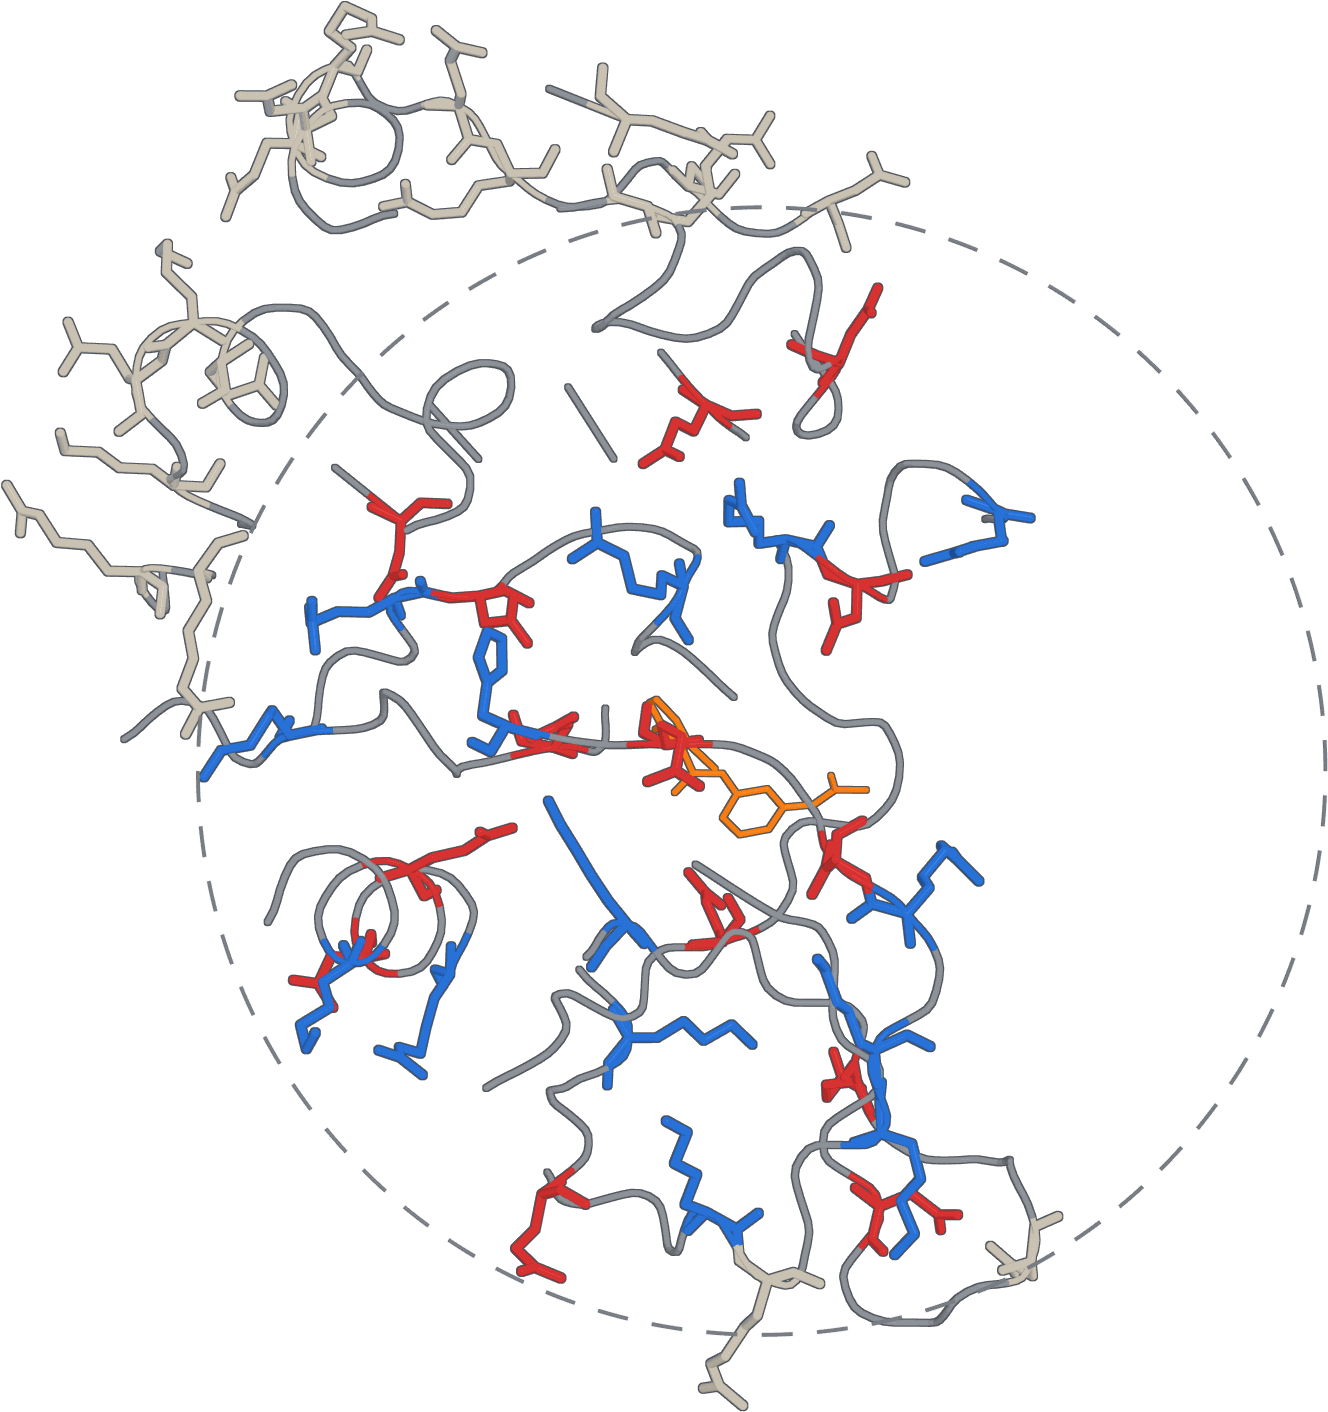
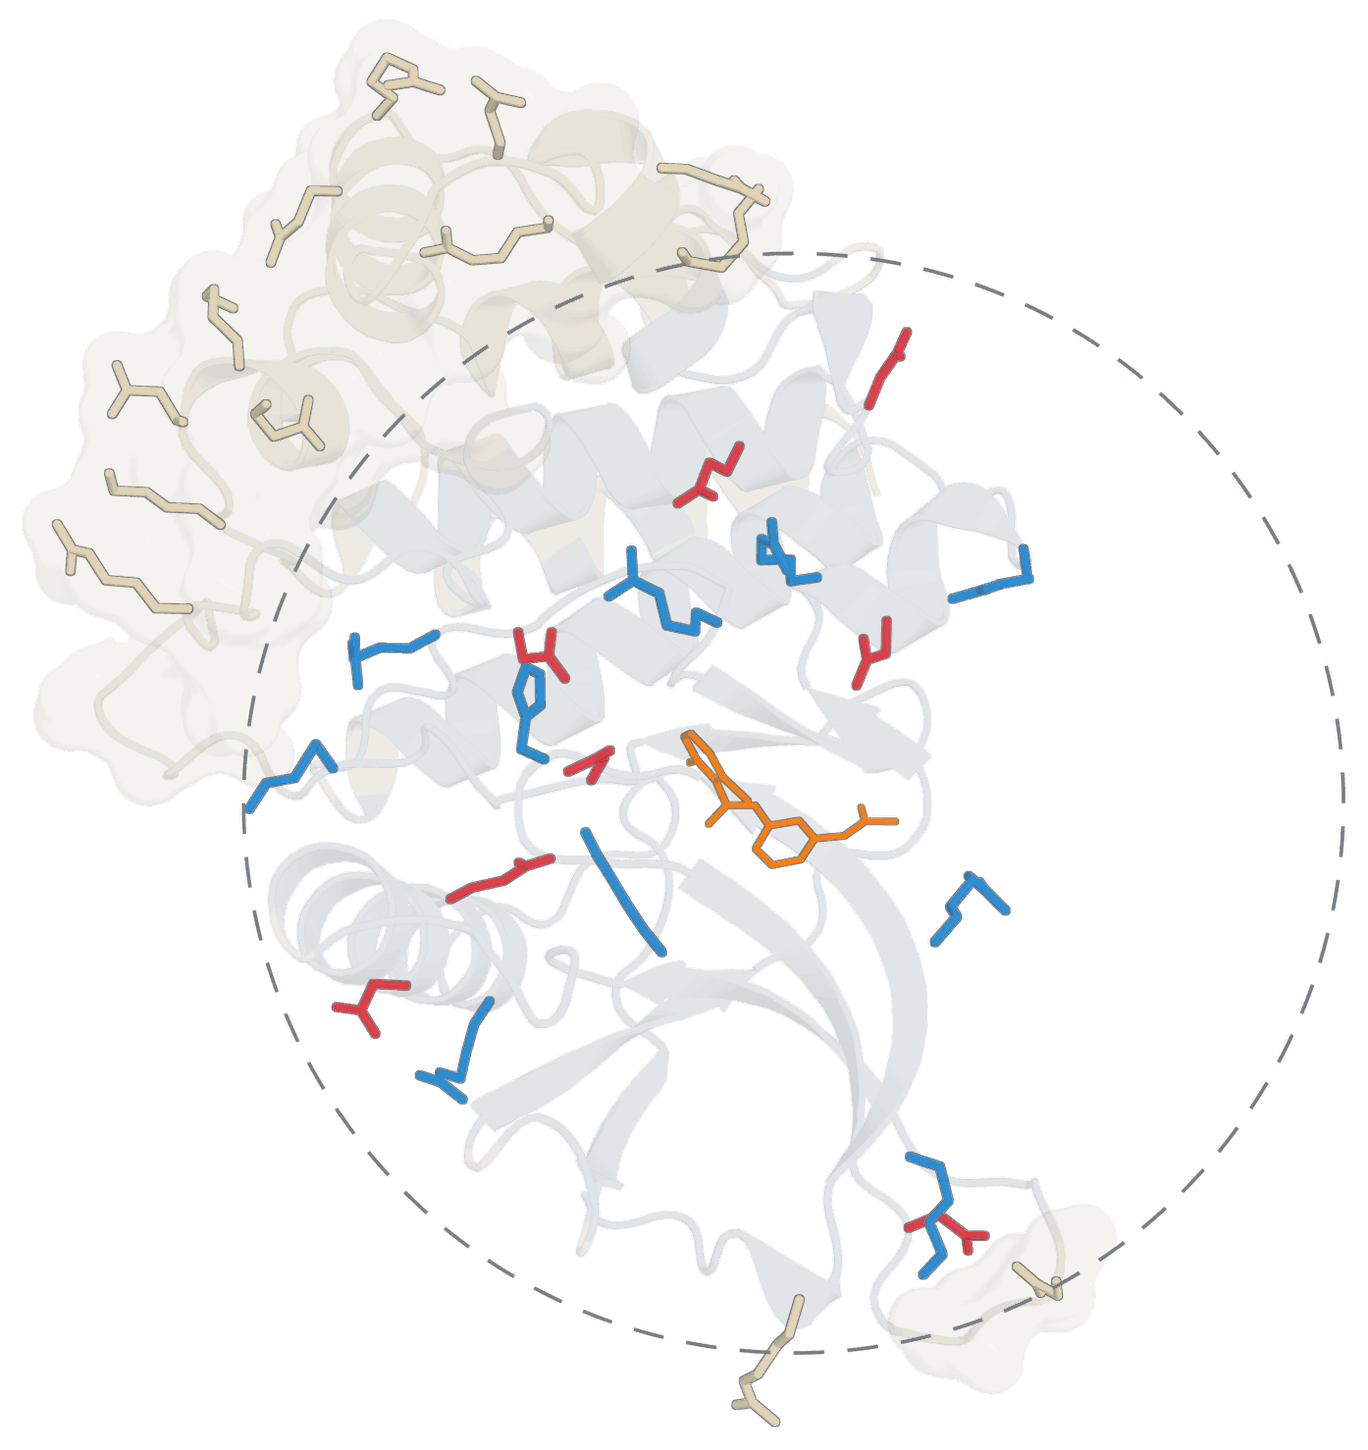
docs(figures): redraw the neutralised residues over a protein cartoon
Replaces the backbone trace with a whole-protein cartoon and a surface over the excluded atoms, and draws the ionisable side chains of a 12 A slab. The render script was drafted with Codex and is kept in docs/scripts.

diff --git a/docs/scripts/render_boundary_neutralisation.py b/docs/scripts/render_boundary_neutralisation.py
@@ -1,13 +1,21 @@
 """Figure for docs/source/concepts/electrostatics.md: ionisable residues by treatment.
 
 Renders the Tyk2 structure of the benchmark set with PyMOL, as prepared by
-``qprep_prot``. The residues that were neutralised are read from
-``preparation.json``; the structures are read in place and are not part of
-the repository.
+``qprep_prot``: a whole-protein cartoon for context, and the side chains of
+the ionisable residues whose ionisable group lies within 6 A of the plane
+through the sphere centre. The residues that were neutralised are read from
+``preparation.json``; which atoms are excluded comes from the qprep mask (see
+``render_sphere_regions.py`` for the qprep input that writes it). The
+structures are read in place and are not part of the repository.
 
-    python docs/scripts/render_boundary_neutralisation.py --benchmark-dir /path/to/perturbations/tyk2
+The image is built from separately rendered layers in one orthoscopic view
+(cartoon, surface of the excluded atoms in the slab, side chains, ligand,
+circle), so the context cannot hide the residues. The dashed circle lies in
+the plane through the sphere centre perpendicular to the view.
+
+    python docs/scripts/render_boundary_neutralisation.py \
+        --benchmark-dir /path/to/perturbations/tyk2 --free /path/to/notexcluded.pdb
 """
-
 from __future__ import annotations
 
 import argparse
@@ -17,126 +25,178 @@ import tempfile
 from pathlib import Path
 
 import numpy as np
-from PIL import Image, ImageFilter
+from PIL import Image, ImageChops, ImageFilter
 from pymol import cgo, cmd
 
 OUT = Path(__file__).resolve().parents[1] / "source" / "_static" / "figures" / "boundary-neutralisation.png"
-NORMAL = (1.0, 0.0, 0.0)  # same view as the sphere-regions figure
-UP = (0.0, 0.0, 1.0)
-HALF_SLAB = 8.0  # A; ionisable residues with their C-alpha in this slab are drawn
-STICK_RADIUS = 0.2
-ACIDIC = (0.85, 0.20, 0.20)  # ASP, GLU, charged
-BASIC = (0.16, 0.45, 0.85)  # LYS, ARG, HIP, charged
-NEUTRALISED = (0.79, 0.76, 0.70)  # ASH, GLH, LYN, ARN
-BACKBONE = (0.55, 0.57, 0.60)
-LIGAND = (0.98, 0.50, 0.08)
-CIRCLE = (0.46, 0.48, 0.51)
-EDGE = (69, 74, 80)
-SIZE = 1500  # px
-CHARGED_ACIDIC, CHARGED_BASIC = "ASP+GLU", "LYS+ARG+HIP"
+WORK = Path(tempfile.gettempdir()) / "boundary-neutralisation-layers"  # intermediate renders
+SIZE = 1500
+NORMAL = (1., 0., 0.)
+UP = (0., 0., 1.)
+COLORS = {"acid": (0.86, 0.25, 0.29), "base": (0.18, 0.55, 0.82),
+          "neutral": (0.88, 0.83, 0.71), "backbone": (0.65, 0.70, 0.73),
+          "outside": (0.80, 0.77, 0.69), "inside": (0.60, 0.72, 0.77),
+          "ligand_color": (0.98, 0.49, 0.07)}
+# Heavy atoms of the terminal ionisable moiety (also used for neutral forms).
+GROUPS = {"ASP": "CG OD1 OD2", "GLU": "CD OE1 OE2", "LYS": "NZ",
+          "ARG": "NE CZ NH1 NH2", "HIP": "CG ND1 CD2 CE1 NE2"}
 
 
-def dashed_circle(radius, dashes=64, width=0.085):
+def select_indices(name, indices):
+    cmd.select_list(name, "protein", indices, mode="index")
+
+
+def circle(radius):
     obj = []
-    for i in range(dashes):
-        start = 2.0 * math.pi * i / dashes
-        end = start + 0.56 * 2.0 * math.pi / dashes
-        angles = np.linspace(start, end, 5)
+    color = (0.46, 0.48, 0.51)
+    for i in range(64):
+        angles = np.linspace(2 * math.pi * i / 64, 2 * math.pi * (i + .57) / 64, 5)
         for a, b in zip(angles[:-1], angles[1:]):
-            p = (radius * math.cos(a), radius * math.sin(a), 0.0)
-            q = (radius * math.cos(b), radius * math.sin(b), 0.0)
-            obj += [cgo.CYLINDER, *p, *q, width, *CIRCLE, *CIRCLE]
+            p = (radius * math.cos(a), radius * math.sin(a), 0.)
+            q = (radius * math.cos(b), radius * math.sin(b), 0.)
+            obj += [cgo.CYLINDER, *p, *q, .080, *color, *color]
     return obj
 
 
-def ray(path: Path) -> Image.Image:
-    cmd.png(str(path), width=SIZE, height=SIZE, dpi=200, ray=1)
-    return Image.open(path).convert("RGBA")
+def render(tag, opacity=1., outline=.75):
+    """Keep intermediate rays local; add only an exterior 1 px silhouette."""
+    path = WORK / (tag + ".png")
+    cmd.png(str(path), width=SIZE, height=SIZE, ray=1, dpi=200)
+    im = Image.open(path).convert("RGBA")
+    alpha = im.getchannel("A")
+    ring = ImageChops.subtract(alpha.filter(ImageFilter.MaxFilter(3)), alpha)
+    edge = Image.new("RGBA", im.size, (62, 67, 72, 0))
+    edge.putalpha(ring.point(lambda x: round(x * outline)))
+    im = Image.alpha_composite(edge, im)
+    im.putalpha(im.getchannel("A").point(lambda x: round(x * opacity)))
+    return im
 
 
-def main() -> None:
-    parser = argparse.ArgumentParser(description=__doc__, formatter_class=argparse.RawDescriptionHelpFormatter)
+def save(image):
+    box = image.getbbox()
+    pad = 22
+    box = (max(0, box[0]-pad), max(0, box[1]-pad),
+           min(SIZE, box[2]+pad), min(SIZE, box[3]+pad))
+    image = image.crop(box)
+    image = image.resize(tuple(round(v * 1450 / max(image.size)) for v in image.size), Image.Resampling.LANCZOS)
+    # Indexed RGBA keeps this flat-shaded illustration compact, including alpha.
+    image.quantize(colors=256, method=Image.Quantize.FASTOCTREE,
+                   dither=Image.Dither.NONE).save(OUT, optimize=True)
+    print(f"Wrote {OUT.name}: {image.size}, {OUT.stat().st_size / 1000:.0f} kB", flush=True)
+
+
+def main():
+    parser = argparse.ArgumentParser(description=__doc__)
     parser.add_argument("--benchmark-dir", type=Path, required=True)
+    parser.add_argument("--free", type=Path, required=True)
     args = parser.parse_args()
+    WORK.mkdir(parents=True, exist_ok=True)
     prep = json.loads((args.benchmark_dir / "preparation.json").read_text())
-    centre, radius = np.array(prep["legacy_cog"]), float(prep["nominal_radius"])
-    changed = prep["neutralization"]["modifications"]
-    neutralised_ids = "+".join(key.split(":")[1] for key in changed)
-
-    normal = np.array(NORMAL) / np.linalg.norm(NORMAL)
-    u = np.cross(UP, normal)
-    u /= np.linalg.norm(u)
-    rotation = np.array([u, np.cross(normal, u), normal])
-    cmd.load(str(args.benchmark_dir / "protein.pdb"), "solute")
+    centre = np.asarray(prep["legacy_cog"])
+    radius = float(prep["nominal_radius"])
+    changes = prep["neutralization"]["modifications"]
+    cmd.reinitialize()
+    cmd.set("auto_zoom", 0)
+    cmd.load(str(args.benchmark_dir / "protein.pdb"), "protein")
     cmd.load(str(args.benchmark_dir / "ejm_31.pdb"), "ligand")
+    cmd.load(str(args.free), "mask")
     cmd.remove("hydrogens")
-    for name in ("solute", "ligand"):
-        cmd.load_coords((cmd.get_coords(name) - centre) @ rotation.T, name)
-
-    cmd.select("neutralised", f"solute and resi {neutralised_ids}")
-    cmd.select("acidic", f"solute and resn {CHARGED_ACIDIC}")
-    cmd.select("basic", f"solute and resn {CHARGED_BASIC}")
-    in_slab = f"byres (solute and name CA and z > {-HALF_SLAB} and z < {HALF_SLAB})"
-    for name in ("neutralised", "acidic", "basic"):
-        distances = [np.linalg.norm(cmd.get_coords(f"solute and resi {a.resi}").mean(0))
-                     for a in cmd.get_model(f"{name} and name CA").atom]
-        beyond_22 = sum(d > radius - 3.0 for d in distances)
-        print(f"{name}: {len(distances)} residues, {cmd.count_atoms(f'{name} and name CA and {in_slab}')} drawn, "
-              f"centre distances {min(distances):.1f} to {max(distances):.1f} A, {beyond_22} beyond {radius - 3.0:.0f} A")
-
+    # Coordinate matching handles qprep's absent chain IDs and reordered atoms.
+    cmd.select("free_atoms", "protein and (mask around 0.01)")
+    cmd.select("excluded_atoms", "protein and not free_atoms")
+    normal = np.asarray(NORMAL, dtype=float)
+    normal /= np.linalg.norm(normal)
+    right = np.cross(UP, normal)
+    right /= np.linalg.norm(right)
+    rotation = np.array([right, np.cross(normal, right), normal])
+    for obj in ("protein", "ligand", "mask"):
+        cmd.load_coords((cmd.get_coords(obj) - centre) @ rotation.T, obj)
+    residues = {}
+    for atom in cmd.get_model("protein").atom:
+        residues.setdefault(f"{atom.chain}:{atom.resi}", []).append(atom)
+    assert set(changes) <= set(residues), "Preparation residue missing from protein"
+    classes = {"acid": [], "base": [], "neutral": []}
+    moieties, shown = [], {k: [] for k in classes}
+    for key, atoms in residues.items():
+        resn = atoms[0].resn
+        if key in changes:
+            assert resn in (changes[key]["original"], changes[key]["modified"]), key
+            category, original = "neutral", changes[key]["original"]
+        elif resn in GROUPS:
+            category, original = ("acid" if resn in ("ASP", "GLU") else "base"), resn
+        else:
+            continue
+        group = [a for a in atoms if a.name in GROUPS[original].split()]
+        assert len(group) == len(GROUPS[original].split()), (key, original)
+        classes[category].append(key)
+        # Visibility selection only; this never determines the charge class.
+        if abs(np.mean([a.coord[2] for a in group])) > 6.:
+            continue
+        shown[category].append(key)
+        moieties.extend(a.index for a in group)
+    assert [len(classes[k]) for k in ("acid", "base", "neutral")] == [23, 20, 32]
+    for category, keys in shown.items():
+        select_indices(category, [a.index for key in keys for a in residues[key]])
+    select_indices("moieties", moieties)
+    print("Residues drawn: " + str({k: len(v) for k, v in shown.items()}), flush=True)
+    for name, rgb in COLORS.items():
+        cmd.set_color(name, rgb)
     cmd.hide("everything")
-    colours = {"c_acidic": ACIDIC, "c_basic": BASIC, "c_neutral": NEUTRALISED, "c_backbone": BACKBONE, "c_ligand": LIGAND}
-    for name, rgb in colours.items():
-        cmd.set_color(name, list(rgb))
-    cmd.color("c_backbone", "solute")
-    cmd.color("c_acidic", "acidic")
-    cmd.color("c_basic", "basic")
-    cmd.color("c_neutral", "neutralised")
-    cmd.color("c_ligand", "ligand")
-    # Backbone trace of the residues in the slab, for context
-    cmd.set("ribbon_width", 2.0)
-    cmd.set("ribbon_sampling", 8)
-    cmd.show("ribbon", f"solute and {in_slab}")
-    cmd.show("sticks", f"(acidic or basic or neutralised) and {in_slab} and (sidechain or name CA)")
-    cmd.show("sticks", "ligand")
-    cmd.set("stick_radius", STICK_RADIUS)
-    cmd.set("stick_radius", 0.13, "ligand")
+    cmd.dss("protein")
+    cmd.color("backbone", "protein")
+    cmd.color("outside", "excluded_atoms")
+    cmd.color("ligand_color", "ligand")
+    cmd.set("cartoon_fancy_helices", 1)
+    cmd.set("cartoon_flat_sheets", 1)
+    cmd.set("cartoon_loop_radius", .18)
+    cmd.set("cartoon_oval_width", .22)
+    cmd.set("cartoon_oval_length", 1.05)
+    cmd.set("cartoon_rect_width", .22)
+    cmd.set("cartoon_rect_length", 1.1)
+    cmd.set("stick_radius", .19)
     cmd.set("stick_ball", 0)
     cmd.set("valence", 0)
-
     cmd.set("orthoscopic", 1)
     cmd.set("depth_cue", 0)
     cmd.set("ray_shadows", 0)
-    cmd.set("specular", 0.08)
-    cmd.set("ambient", 0.65)
-    cmd.set("direct", 0.35)
+    cmd.set("specular", .05)
+    cmd.set("ambient", .65)
+    cmd.set("direct", .35)
     cmd.set("ray_opaque_background", 0)
     cmd.set("antialias", 2)
-    xy = cmd.get_coords(f"(solute and {in_slab}) or ligand")[:, :2]
-    low = np.minimum(xy.min(0) - 2.8, -radius - 1.4)
-    high = np.maximum(xy.max(0) + 2.8, radius + 1.4)
-    middle = (low + high) / 2.0
-    cmd.set_view([1, 0, 0, 0, 1, 0, 0, 0, 1, 0, 0, -200, *middle, 0, 100, 300, 0])
-    cmd.pseudoatom("frame", pos=[*middle, 0.0])
-    cmd.zoom("frame", float(max(high - low) / 2.0))
+    cmd.set("surface_quality", 1)
+    cmd.set("max_threads", 4)
+    xy = cmd.get_coords("protein or ligand")[:, :2]
+    low = np.minimum(xy.min(0)-3, -radius-2)
+    high = np.maximum(xy.max(0)+3, radius+2)
+    mid = (low+high)/2
+    cmd.set_view([1,0,0, 0,1,0, 0,0,1, 0,0,-200, *mid,0, 100,300,0])
+    cmd.pseudoatom("frame", pos=[*mid, 0.])
+    cmd.zoom("frame", float(max(high-low)/2))
     cmd.hide("everything", "frame")
     view = cmd.get_view()
-
-    scratch = Path(tempfile.gettempdir())
-    molecules = ray(scratch / "boundary-neutralisation-molecules.png")
-    edge = Image.new("RGBA", molecules.size, (*EDGE, 0))
-    edge.putalpha(molecules.getchannel("A").filter(ImageFilter.MaxFilter(3)))
-    molecules = Image.alpha_composite(edge, molecules)
-
+    # Separate layers keep the protein context from obscuring selected residues.
+    cmd.show("cartoon", "protein")
+    context = render("context", opacity=.34, outline=.25)
     cmd.hide("everything")
-    cmd.load_cgo(dashed_circle(radius), "circle")
+    cmd.create("outer_slice", "excluded_atoms and z > -6 and z < 6")
+    cmd.show("surface", "outer_slice")
+    context = Image.alpha_composite(context, render("slab_surface", opacity=.20, outline=.3))
+    cmd.hide("everything")
+    for category in classes:
+        cmd.color(category, category)
+    cmd.show("sticks", "(acid or base or neutral) and (sidechain or name CA)")
+    highlights = render("highlights")
+    result = Image.alpha_composite(context, highlights)
+    cmd.hide("everything")
+    cmd.show("sticks", "ligand")
+    cmd.set("stick_radius", .13, "ligand")
+    result = Image.alpha_composite(result, render("ligand"))
+    cmd.hide("everything")
+    cmd.load_cgo(circle(radius), "boundary_circle")
     cmd.set_view(view)
-    circle = ray(scratch / "boundary-neutralisation-circle.png")
-
-    image = Image.alpha_composite(molecules, circle)
-    image = image.crop(image.getbbox())
-    image.quantize(colors=256, method=Image.Quantize.FASTOCTREE, dither=Image.Dither.NONE).save(OUT, optimize=True)
-    print(f"wrote {OUT} ({image.width} x {image.height} px, {OUT.stat().st_size / 1e6:.2f} MB)")
+    result = Image.alpha_composite(result, render("circle", outline=0))
+    save(result)
 
 
 if __name__ == "__main__":

diff --git a/docs/source/concepts/electrostatics.md b/docs/source/concepts/electrostatics.md
@@ -243,24 +243,25 @@ Check the log of `qprep_prot`: it lists the residues that were changed and
 the total charge before and after.
 
 ```{figure} ../_static/figures/boundary-neutralisation.png
-:alt: Backbone trace of a protein with a dashed circle of 25 angstrom radius around the ligand. Ionisable side chains inside the circle are red (acidic) or blue (basic) sticks. Ionisable side chains outside the circle are pale sticks.
+:alt: Faint cartoon of a protein with a dashed circle of 25 angstrom radius around the ligand. Inside the circle, acidic side chains are red sticks and basic side chains are blue sticks. Outside the circle, side chains are pale sticks inside a pale translucent surface.
 :width: 70%
 
 Ionisable residues of Tyk2 after `qprep_prot`, in the structure of the
 QligFEP benchmark set and in the same view as the
 [sphere-regions figure](spherical-boundary.md#regions-of-the-sphere). Red:
 ASP and GLU that keep their charge. Blue: LYS, ARG and doubly protonated HIS
-that keep their charge. Pale: residues that were neutralised. Orange: a
-ligand. Grey: backbone trace. Dashed circle: the sphere radius of 25 Å. Only
-residues with their C$_\alpha$ within 8 Å of the plane through the centre
-are drawn, so a residue just outside the sphere can appear just inside the
-circle. In the whole structure 32 residues were neutralised (14 GLU, 8 ARG,
-8 LYS, 2 ASP; 17 drawn) and 43 keep their charge (23 acidic, 20 basic; 28
-drawn); the net charge of the protein is −3 before and after. This structure
-was prepared with `--neutralize_boundary_offset 0`, so only residues outside
-the sphere were neutralised; with the default of 3 Å the charged residues in
-the outer 3 Å of the sphere are neutralised as well. Rendered by
-`docs/scripts/render_boundary_neutralisation.py`.
+that keep their charge. Pale sticks: residues that were neutralised. Orange:
+a ligand. Dashed circle: the outline of the 25 Å sphere. The faint cartoon is
+the whole protein, grey for free and pale for excluded residues; the pale
+surface covers the excluded atoms near the plane of the figure. Side chains
+are drawn only for residues whose ionisable group lies within 6 Å of the
+plane through the sphere centre: 8 of 23 acidic, 10 of 20 basic and 13 of 32
+neutralised residues. The neutralised residues are 14 GLU, 8 ARG, 8 LYS and
+2 ASP, and the net charge of the protein is −3 before and after. This
+structure was prepared with `--neutralize_boundary_offset 0`, so only
+residues outside the sphere were neutralised; with the default of 3 Å the
+charged residues in the outer 3 Å of the sphere are neutralised as well.
+Rendered by `docs/scripts/render_boundary_neutralisation.py`.
 ```
 
 ### Perturbations that change the net charge
